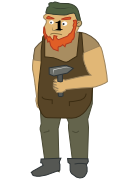
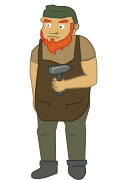
Talking animation for GRIMVALD

diff --git a/Assets/Characters/Grimvald.py b/Assets/Characters/Grimvald.py
@@ -56,10 +56,20 @@ class Grimvald(Character):
 
         self.addSequence('talk',[
             'grimvald-talk-1.png',
+            'grimvald-talk-1.png',
+            'grimvald-talk-1.png',
+            'grimvald-talk-2.png',
+            'grimvald-talk-2.png',
             'grimvald-talk-2.png',
             'grimvald-talk-3.png',
+            'grimvald-talk-3.png',
+            'grimvald-talk-3.png',
             'grimvald-talk-4.png',
-            'grimvald-talk-5.png'
+            'grimvald-talk-4.png',
+            'grimvald-talk-4.png',
+            'grimvald-talk-5.png',
+            'grimvald-talk-5.png',
+            'grimvald-talk-5.png',
             ])
 
         self.setPosition((634,306))

diff --git a/ScriptManager.py b/ScriptManager.py
@@ -128,6 +128,7 @@ class ScriptManager:
             self.Game.pause()
         elif self.Game.Renderer.Timer.currentFrame - self.durationFrames == self.startFrame or self.skipped:
             #After each part is done or skipped
+            self.getActor().setSequence('default')
             self.Game.AudioController.stopSpeech()
             self.skipped = False
             self.script.pop(0)
